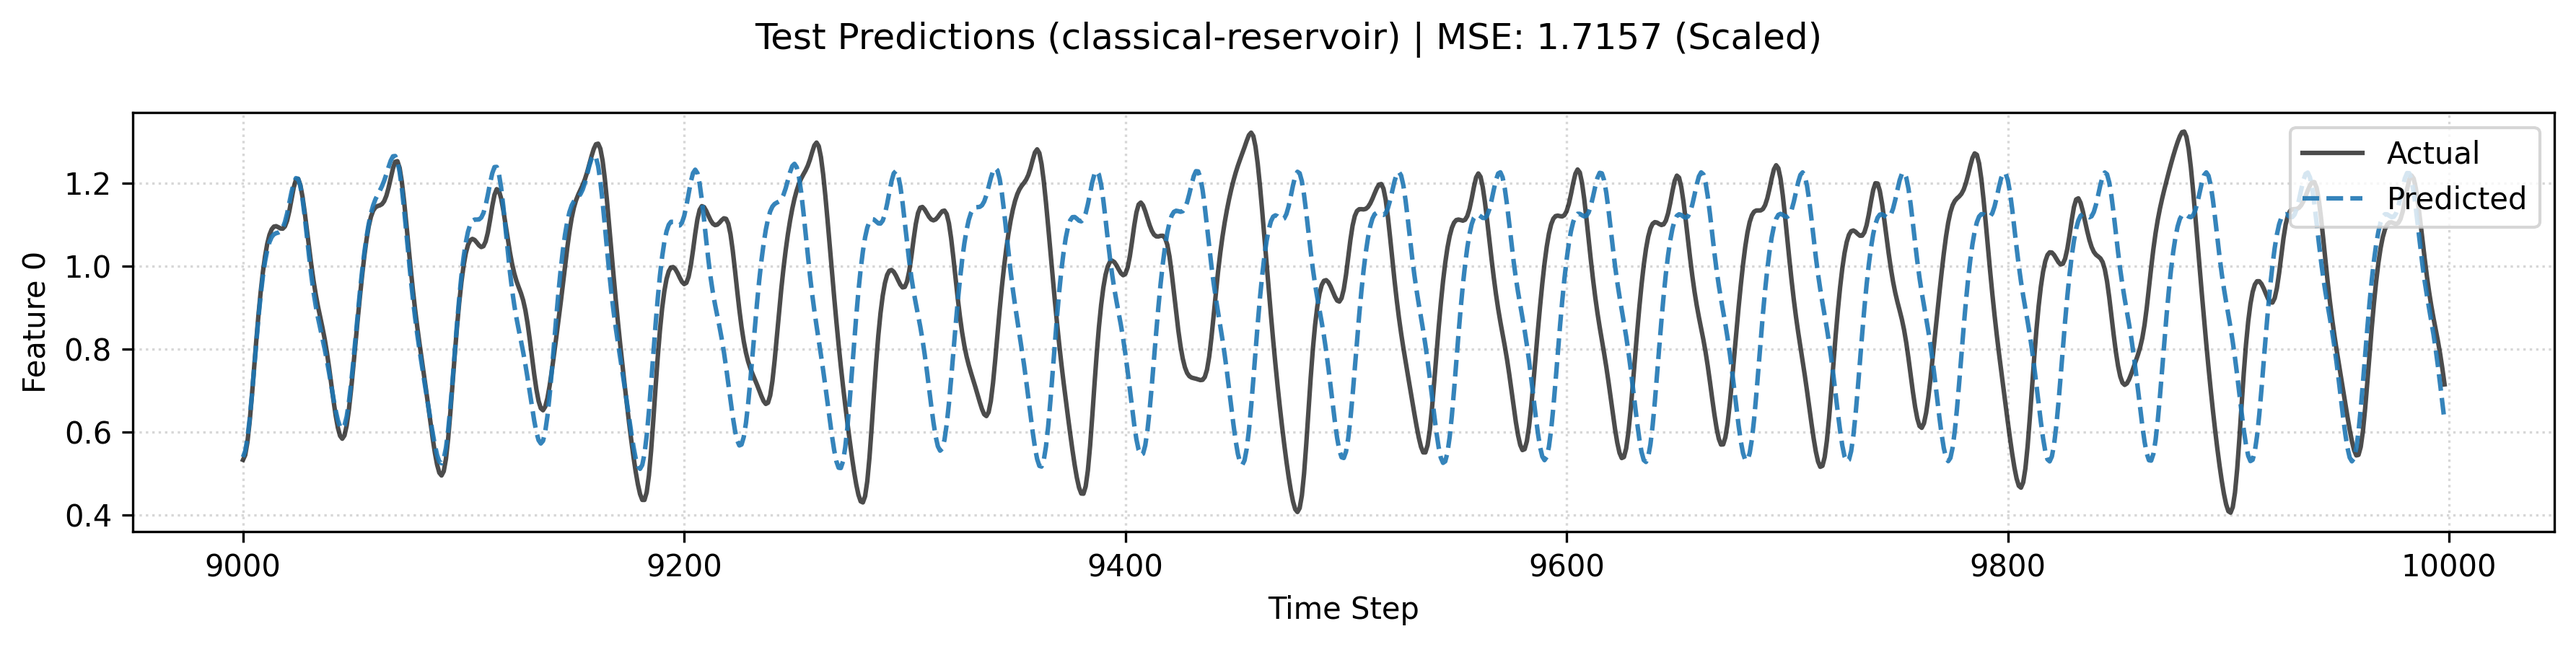
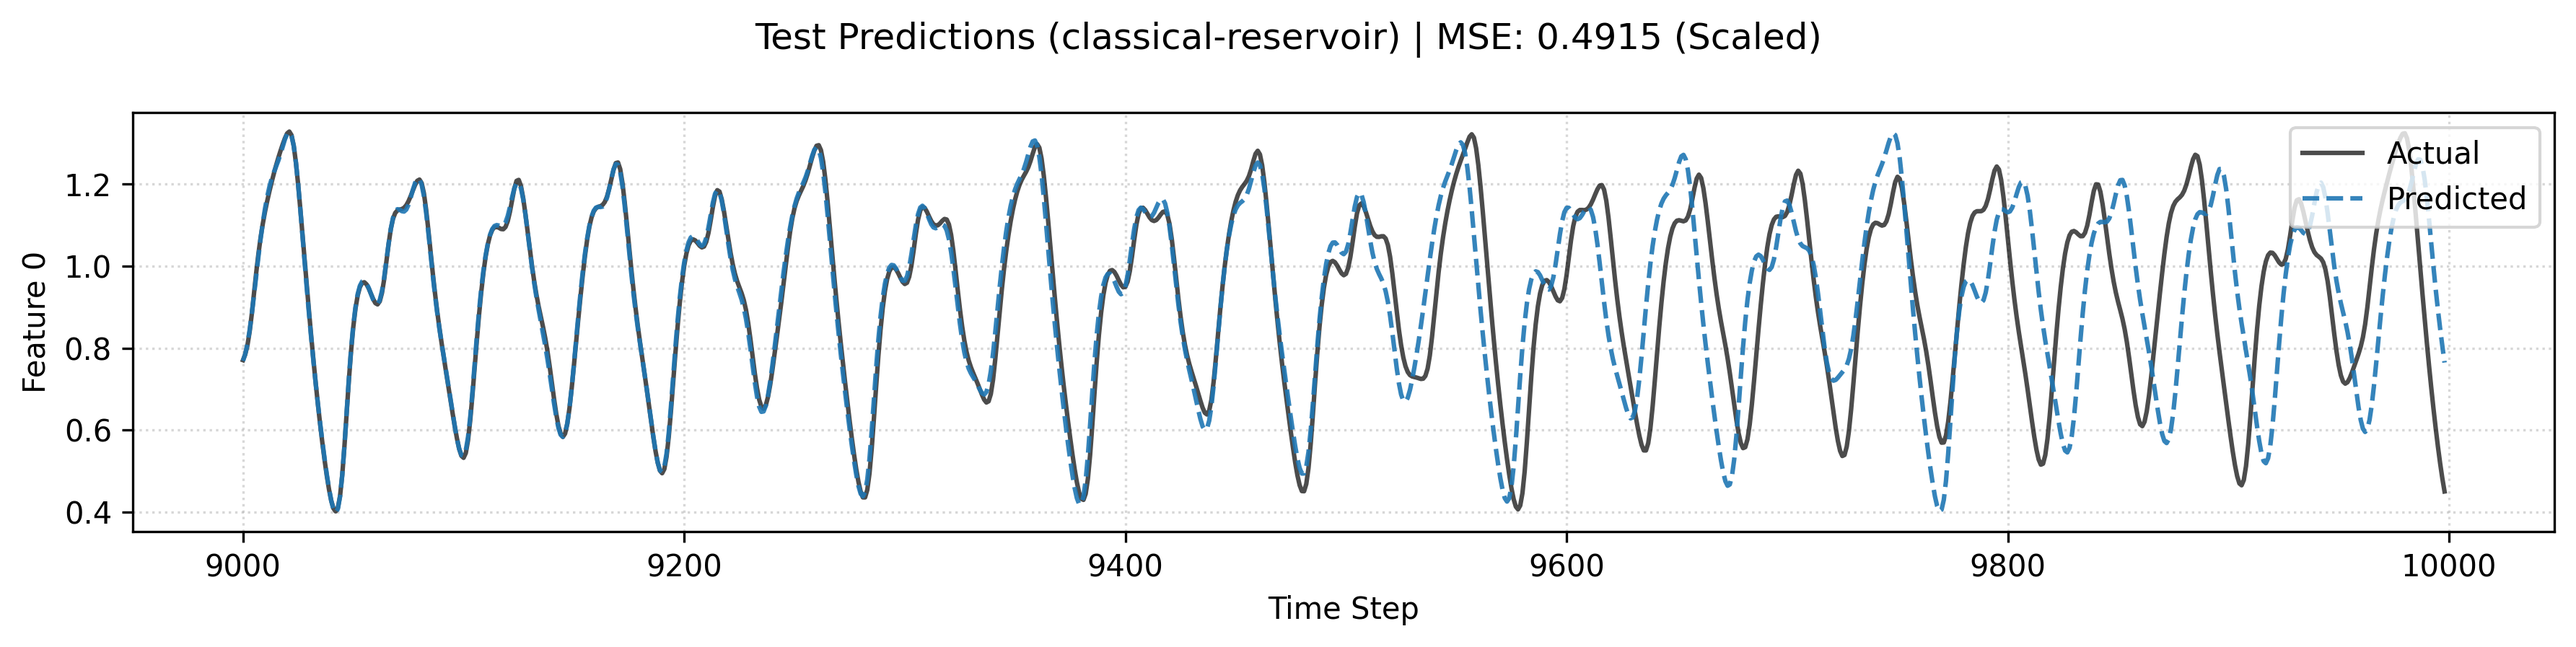
changeing so regression also uses lambda search

diff --git a/src/reservoir/pipelines/generic_runner.py b/src/reservoir/pipelines/generic_runner.py
@@ -1,4 +1,4 @@
-"""
+"""/home/yoshi/PycharmProjects/Reservoir/src/reservoir/pipelines/generic_runner.py
 Universal pipeline that treats models as feature extractors and owns the readout.
 Updated to distinguish between Aggregation (Reservoir) and Inference (FNN/Distillation) in logs.
 """
@@ -236,6 +236,15 @@ class UniversalPipeline:
         single_candidate = lambda_candidates[0] if len(lambda_candidates) == 1 else None
         direct_fit = val_Z is None or val_y is None or len(lambda_candidates) <= 1
 
+        # Flatten 3D (Batch, Time, Feat) -> 2D (Sample, Feat) for Ridge
+        if train_Z.ndim == 3: train_Z = train_Z.reshape(-1, train_Z.shape[-1])
+        if train_y.ndim == 3: train_y = train_y.reshape(-1, train_y.shape[-1])
+        
+        if val_Z is not None and val_Z.ndim == 3: 
+             val_Z = val_Z.reshape(-1, val_Z.shape[-1])
+        if val_y is not None and val_y.ndim == 3: 
+             val_y = val_y.reshape(-1, val_y.shape[-1])
+
         if direct_fit:
             chosen = float(single_candidate if single_candidate is not None else initial_lambda)
             safe_set_lambda(chosen)
@@ -244,9 +253,6 @@ class UniversalPipeline:
                 print("No validation set provided. Skipping hyperparameter search.")
             elif len(lambda_candidates) <= 1:
                 print("Single ridge_lambda candidate provided. Running direct fit.")
-            
-            if train_Z.ndim == 3: train_Z = train_Z.reshape(-1, train_Z.shape[-1])
-            if train_y.ndim == 3: train_y = train_y.reshape(-1, train_y.shape[-1])
             
             self.readout.fit(train_Z, train_y)
             return chosen, {}, {}
@@ -389,16 +395,11 @@ class UniversalPipeline:
                          # Projection Fn
                          proj_fn = None
                          if self.config.projection is not None:
-                             input_dim = frontend_ctx.preprocessed_shape[-1]
-                             projection_layer = InputProjection(
-                                input_dim=int(input_dim),
-                                output_dim=int(self.config.projection.n_units),
-                                input_scale=float(self.config.projection.input_scale),
-                                input_connectivity=float(self.config.projection.input_connectivity),
-                                seed=int(self.config.projection.seed),
-                                bias_scale=float(self.config.projection.bias_scale),
-                             )
-                             def proj_fn(x): return projection_layer(x)
+                             if hasattr(frontend_ctx, "projection_layer") and frontend_ctx.projection_layer is not None:
+                                  print("    [Runner] Using existing InputProjection from FrontendContext.")
+                                  def proj_fn(x): return frontend_ctx.projection_layer(x)
+                             else:
+                                 print(" No projection Layer loaded")
 
                          # 3. Generate
                          closed_loop_pred_val = self.generate_closed_loop(seed_input, steps=generation_steps, projection_fn=proj_fn)

diff --git a/src/reservoir/models/presets.py b/src/reservoir/models/presets.py
@@ -49,7 +49,7 @@ DEFAULT_PROJECTION = ProjectionConfig(
     seed=42,
 )
 
-DEFAULT_READOUT = RidgeReadoutConfig(init_lambda=1e-2, use_intercept=True)
+DEFAULT_READOUT = RidgeReadoutConfig(init_lambda=1e-3, use_intercept=True)
 
 CLASSICAL_RESERVOIR_DYNAMICS = ClassicalReservoirConfig(
     spectral_radius=1.3,
@@ -82,14 +82,14 @@ TIME_CLASSICAL_RESERVOIR_PRESET = PipelineConfig(
     ),
     projection=ProjectionConfig(
         n_units=400,
-        input_scale=0.1,
+        input_scale=0.4,
         input_connectivity=1.0,
-        bias_scale=0.0,
+        bias_scale=0.1,
         seed=1,
     ),
     model=ClassicalReservoirConfig(
-        spectral_radius=0.95,
-        leak_rate=0.5,
+        spectral_radius=0.99,
+        leak_rate=0.2,
         rc_connectivity=0.02,
         seed=42,
         aggregation=AggregationMode.SEQUENCE,

diff --git a/src/reservoir/data/loaders.py b/src/reservoir/data/loaders.py
@@ -175,12 +175,8 @@ def load_dataset_with_validation_split(
     print(f"Loading dataset: {dataset_enum.value}...")
     dataset = loader(preset.config)
 
-    # User Request: Disable validation for Regression tasks
-    if preset.task_type == TaskType.REGRESSION:
-        print("TaskType.REGRESSION detected: Disabling validation split (val_size=0.0).")
-        val_size = 0.0
-    else:
-        val_size = float(training_cfg.val_size)
+    # val is needed for both tasks
+    val_size = float(training_cfg.val_size)
 
     def _split_validation(features: jnp.ndarray, labels: jnp.ndarray) -> tuple[
         jnp.ndarray, jnp.ndarray, Optional[jnp.ndarray], Optional[jnp.ndarray]

diff --git a/src/reservoir/data/presets.py b/src/reservoir/data/presets.py
@@ -74,7 +74,7 @@ DATASET_DEFINITIONS: Dict[Dataset, DatasetPreset] = {
             n_input=1,
             n_output=1,
             time_steps=10000,
-            warmup_steps=100,
+            warmup_steps=0,
             dt=1,
             noise_level=0.0,
             seed=0,
@@ -85,7 +85,6 @@ DATASET_DEFINITIONS: Dict[Dataset, DatasetPreset] = {
             downsample=1,
         ),
         use_dimensions=None
-
     ),
     Dataset.MNIST: DatasetPreset(
         name="mnist",

diff --git a/src/reservoir/pipelines/run.py b/src/reservoir/pipelines/run.py
@@ -282,6 +282,7 @@ def _process_frontend(config: PipelineConfig, raw_split: SplitDataset, dataset_m
         input_shape_for_meta=input_shape_for_meta,
         input_dim_for_factory=input_dim_for_factory,
         scaler=pre_layers[0] if pre_layers else None,
+        projection_layer=projection,
     )
 
 

diff --git a/src/reservoir/pipelines/config.py b/src/reservoir/pipelines/config.py
@@ -21,6 +21,7 @@ class FrontendContext:
     input_shape_for_meta: tuple[int, ...]
     input_dim_for_factory: int
     scaler: Optional[Any]
+    projection_layer: Optional[Any] = None
 
 
 @dataclass(frozen=True)

diff --git a/AGENTS.md b/AGENTS.md
@@ -25,61 +25,4 @@ Separation of Concerns: 物理層（Reservoir）は計算のみ、論理層（Or
 Don't Repeat Yourself (DRY): 重複コードや設定のコピペを極端に嫌う。
 
 
-Revised Architecture Blueprint (V2.1)
-1-6 Process Flow (Tensor Flow Style)
-データの流れと各ステップの役割定義です。
-
-STEP
-1. Input Data - [Batch, Time, Features]
-Examples: MNIST [28x28], Audio, Text
-
-2. Preprocessing - [Batch, Time, Features] -> [Batch, Time, Features]
-Role: Data scaling, polynomial features (Stateless or independent of model internal structure).
-Examples: Raw, StandardScaler, DesignMatrix
-
-3. Input Projection - [Batch, Time, Features] -> [Batch, Time, Hidden]
-Role: Mapping input space to high-dimensional hidden space (Random or Learned).
-Examples: Random Projection (W_in)
-Note: FNN Student also uses this to match Teacher's input projection logic.
-
-4. Adapter: Flatten is used here if Model requires 2D input [Batch, Time*Hidden] (only at FNN).
-
-5. Model (Engine) - [Batch, Time, Hidden] -> [Batch, Time, Hidden] (Reservoir) OR [Batch, Hidden] (FNN)
-Role: Stateful dynamics or Deep Non-linear mapping.
-Examples: Classical Reservoir, Quantum Reservoir, FNN (Student)
-
-6. Aggregation - [Batch, Time, Hidden] -> [Batch, Feature] (only at Reservoir).
-Role: Temporal reduction to fixed feature vector. 
-Examples: Last state, Mean, Concat
-
-7. Readout - [Batch, Feature] -> [Batch, Output]
-Role: Final decoding/classification.
-Examples: Ridge Regression, Softmax
-WHERE TO FIND THEM (Location Mapping)
-
-Factory (/home/yoshi/PycharmProjects/Reservoir/src/reservoir/models/factory.py) should just include 4-5-6
-where should /home/yoshi/PycharmProjects/Reservoir/src/reservoir/pipelines/generic_runner.py do then?
-
-ファイル配置と責務のマッピングです。
-data/ (Input Data) 1
-layers/preprocessing.py (Preprocessing) 2
-layers/projection.py (Input Projection) 3
-layers/adapters.py (Structural Glues: Flatten, Reshape) 4
-models/ (Model Engine & Assemblers) 5
-    reservoir/, nn/, distillation/
-layers/aggregation.py (Aggregation) 6
-readout/ridge.py (Readout) 7
-
-
-
-models/factory.py (Manufacturer)
-責務: 4-6 (Engine Stack) の製造。
-特徴: 状態を持たない。作って渡すだけ。
-
-pipelines/generic_runner.py (Driver)
-責務: 1-7 の実行（ChatGPTの言う「実験ロジックの正本」）。
-特徴: 何のモデルか（FNNかReservoirか）を知らない。「学習して、特徴とって、Readoutする」という抽象的な手順だけを知っている。
-
-pipelines/run.py (Manager/Frontend)
-責務: 1-3 (Frontend) の準備 と、ドライバーへの指示。
-特徴: 具体的なコンフィグ (RunConfig) を解釈し、データを用意し、Factoryに製造を依頼し、Runnerに鍵を渡す。
+Read Architecure.md for detailed pipelines.

diff --git a/docs/ARCHITECTURE.md b/docs/ARCHITECTURE.md
@@ -1,0 +1,58 @@
+Revised Architecture Blueprint (V2.1)
+1-6 Process Flow (Tensor Flow Style)
+データの流れと各ステップの役割定義です。
+
+STEP
+1. Input Data - [Batch, Time, Features]
+Examples: MNIST [28x28], Audio, Text
+
+2. Preprocessing - [Batch, Time, Features] -> [Batch, Time, Features]
+Role: Data scaling, polynomial features (Stateless or independent of model internal structure).
+Examples: Raw, StandardScaler, DesignMatrix
+
+3. Input Projection - [Batch, Time, Features] -> [Batch, Time, Hidden]
+Role: Mapping input space to high-dimensional hidden space (Random or Learned).
+Examples: Random Projection (W_in)
+Note: FNN Student also uses this to match Teacher's input projection logic.
+
+4. Adapter: Flatten is used here if Model requires 2D input [Batch, Time*Hidden] (only at FNN).
+
+5. Model (Engine) - [Batch, Time, Hidden] -> [Batch, Time, Hidden] (Reservoir) OR [Batch, Hidden] (FNN)
+Role: Stateful dynamics or Deep Non-linear mapping.
+Examples: Classical Reservoir, Quantum Reservoir, FNN (Student)
+
+6. Aggregation - [Batch, Time, Hidden] -> [Batch, Feature] (only at Reservoir).
+Role: Temporal reduction to fixed feature vector. 
+Examples: Last state, Mean, Concat
+
+7. Readout - [Batch, Feature] -> [Batch, Output]
+Role: Final decoding/classification.
+Examples: Ridge Regression, Softmax
+WHERE TO FIND THEM (Location Mapping)
+
+Factory (/home/yoshi/PycharmProjects/Reservoir/src/reservoir/models/factory.py) should just include 4-5-6
+where should /home/yoshi/PycharmProjects/Reservoir/src/reservoir/pipelines/generic_runner.py do then?
+
+ファイル配置と責務のマッピングです。
+data/ (Input Data) 1
+layers/preprocessing.py (Preprocessing) 2
+layers/projection.py (Input Projection) 3
+layers/adapters.py (Structural Glues: Flatten, Reshape) 4
+models/ (Model Engine & Assemblers) 5
+    reservoir/, nn/, distillation/
+layers/aggregation.py (Aggregation) 6
+readout/ridge.py (Readout) 7
+
+
+
+models/factory.py (Manufacturer)
+責務: 4-6 (Engine Stack) の製造。
+特徴: 状態を持たない。作って渡すだけ。
+
+pipelines/generic_runner.py (Driver)
+責務: 1-7 の実行（ChatGPTの言う「実験ロジックの正本」）。
+特徴: 何のモデルか（FNNかReservoirか）を知らない。「学習して、特徴とって、Readoutする」という抽象的な手順だけを知っている。
+
+pipelines/run.py (Manager/Frontend)
+責務: 1-3 (Frontend) の準備 と、ドライバーへの指示。
+特徴: 具体的なコンフィグ (RunConfig) を解釈し、データを用意し、Factoryに製造を依頼し、Runnerに鍵を渡す。
